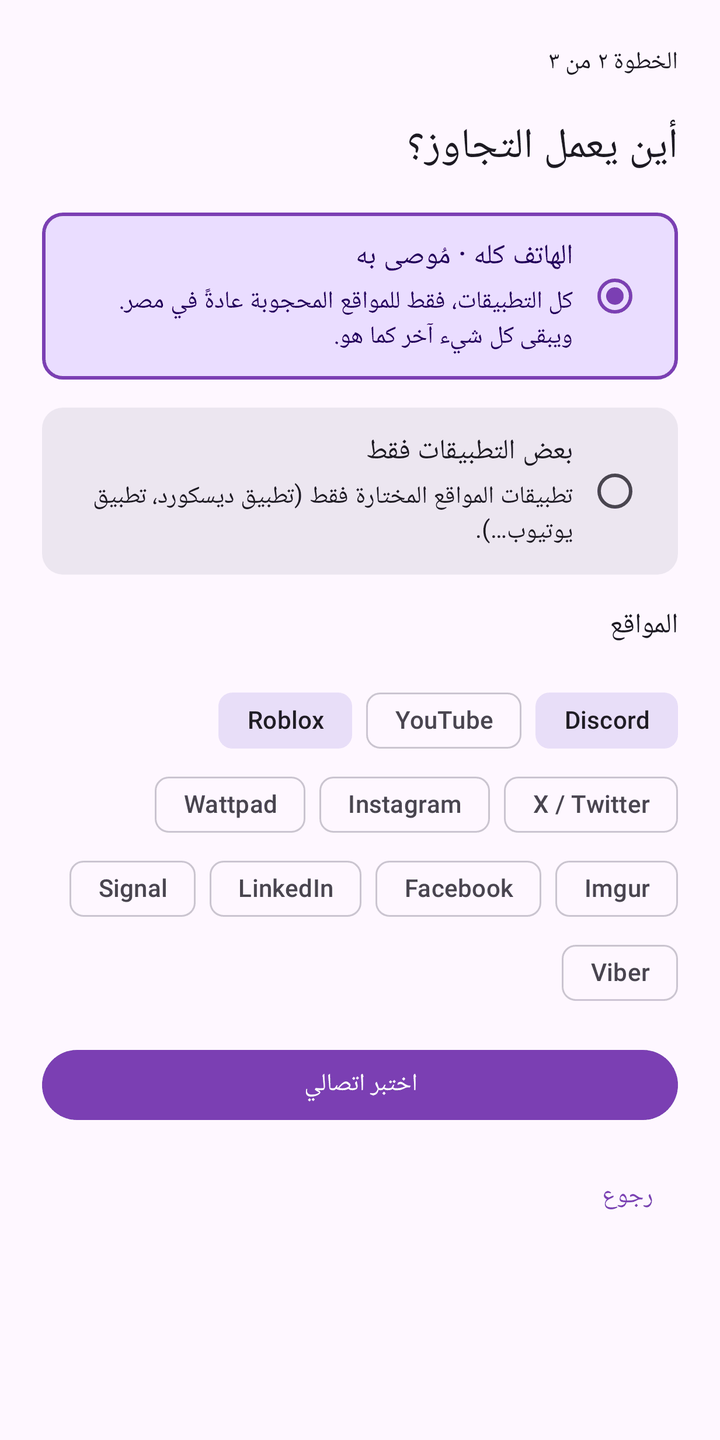
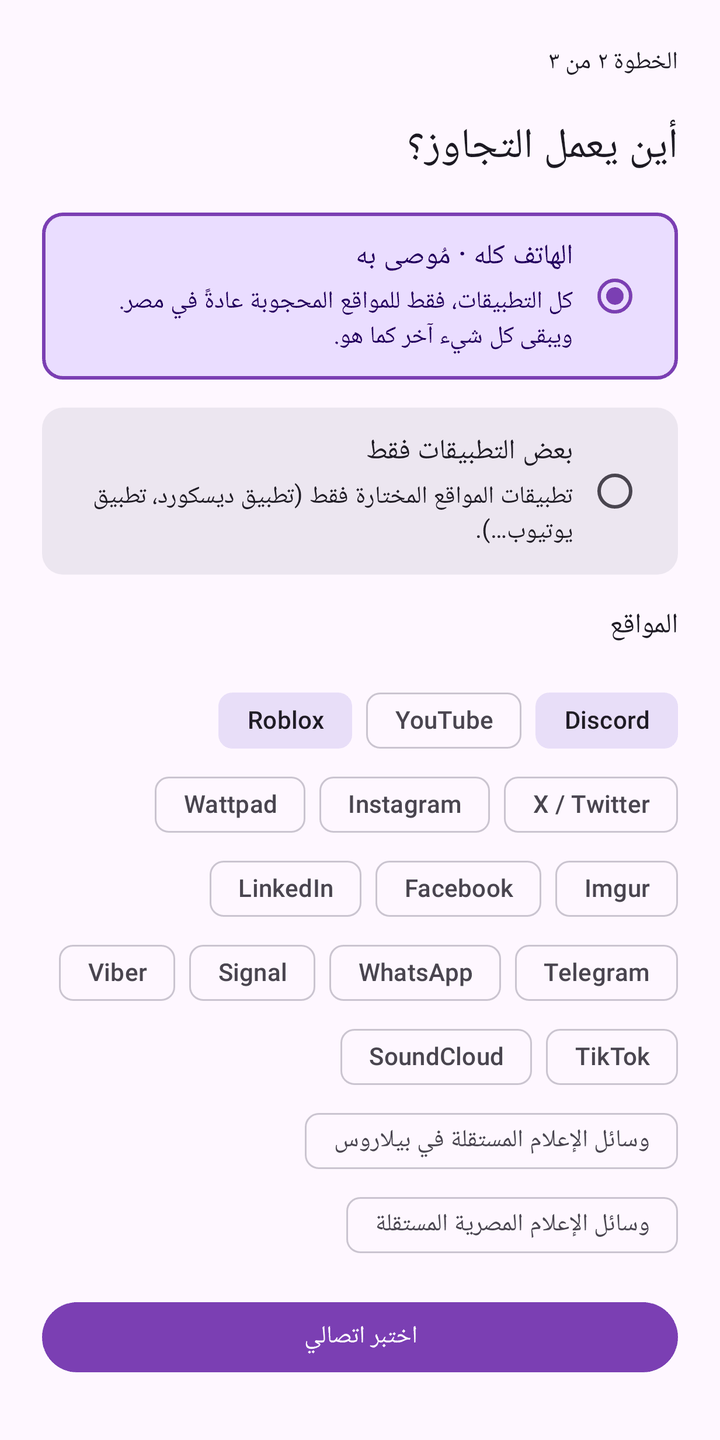
Site packs from the desktop's domains.json
The desktop app keeps its packs in strategies/domains.json (translated
names, countries); read that file instead of packs.json. Pack chips and
new profile names use the translated name.

diff --git a/core/src/main/kotlin/io/github/halilkhrmn/dpimech/core/DomainPack.kt b/core/src/main/kotlin/io/github/halilkhrmn/dpimech/core/DomainPack.kt
@@ -6,7 +6,7 @@ import kotlinx.serialization.SerializationException
 import kotlinx.serialization.json.Json
 
 /**
- * A ready-made site pack, from `strategies/packs.json` in the desktop repository (format 1,
+ * A ready-made site pack, from `strategies/domains.json` in the desktop repository (format 1,
  * shared with the desktop app). The APK ships a copy ([embedded]) and fetches the newest one
  * from [URL]; [ALL] is the list in use.
  */
@@ -20,18 +20,27 @@ data class DomainPack(
     val probes: List<String>,
     /** Android apps that use these domains: choosing the pack ticks them when installed. */
     @SerialName("android_packages") val packages: List<String> = emptyList(),
+    /** The name in other languages, by language code; [name] is English. */
+    val names: Map<String, String> = emptyMap(),
+    /** ISO codes of the countries where the site is widely reported blocked ("*": everywhere). */
+    val countries: List<String> = emptyList(),
 ) {
+    /** The name in [language] (an ISO 639 code) when the file has one, else [name]. */
+    fun displayName(language: String): String = names[language] ?: name
+
     @Serializable
     private data class Raw(val format: Int, val packs: List<DomainPack> = emptyList())
 
     companion object {
-        const val URL = "https://raw.githubusercontent.com/halilkhrmn/dpimech/main/strategies/packs.json"
+        const val URL = "https://raw.githubusercontent.com/halilkhrmn/dpimech/main/strategies/domains.json"
 
         /** The file format this build understands; a newer one is ignored until the app is updated. */
         const val FORMAT = 1
 
         private val json = Json { ignoreUnknownKeys = true }
         private val HOST = Regex("(?=.{1,253}$)([a-z0-9]([a-z0-9-]{0,61}[a-z0-9])?\\.)+[a-z0-9]([a-z0-9-]{0,61}[a-z0-9])?")
+        private val ID = Regex("[a-z0-9-]{1,40}")
+        private val COUNTRY = Regex("\\*|[A-Z]{2}")
         private val PACKAGE = Regex("[A-Za-z][A-Za-z0-9_]*(\\.[A-Za-z][A-Za-z0-9_]*)+")
 
         /**
@@ -45,11 +54,15 @@ data class DomainPack(
                 throw IllegalArgumentException("not a pack file: ${e.message}", e)
             }
             require(raw.format == FORMAT) { "unsupported pack file format ${raw.format}" }
-            require(raw.packs.isNotEmpty()) { "the pack file has no packs" }
+            require(raw.packs.size in 1..100) { "${raw.packs.size} packs" }
             val ids = mutableSetOf<String>()
             for (p in raw.packs) {
-                require(p.id.isNotEmpty() && p.name.isNotBlank() && ids.add(p.id)) { "pack \"${p.id}\": missing or repeated id or name" }
+                require(ID.matches(p.id) && ids.add(p.id)) { "bad or repeated pack id \"${p.id}\"" }
+                require((listOf(p.name) + p.names.values).all { it.isNotBlank() && it.length <= 120 }) { "${p.id}: bad name" }
                 require(p.domains.isNotEmpty() && p.probes.isNotEmpty()) { "pack \"${p.id}\": no domains or no probes" }
+                require(p.domains.size <= 200 && p.probes.size <= 20 && p.packages.size <= 20) { "${p.id}: too many entries" }
+                p.countries.firstOrNull { !COUNTRY.matches(it) }
+                    ?.let { throw IllegalArgumentException("${p.id}: \"$it\" is not a country code") }
                 (p.domains + p.probes).firstOrNull { !HOST.matches(it) }
                     ?.let { throw IllegalArgumentException("pack \"${p.id}\": \"$it\" is not a host name") }
                 p.packages.firstOrNull { !PACKAGE.matches(it) }
@@ -60,9 +73,9 @@ data class DomainPack(
 
         /** The copy built into this app (a resource of this module). */
         val embedded: List<DomainPack> by lazy {
-            val text = DomainPack::class.java.getResourceAsStream("/strategies/packs.json")
+            val text = DomainPack::class.java.getResourceAsStream("/strategies/domains.json")
                 ?.use { it.readBytes().decodeToString() }
-                ?: error("packs.json missing from resources")
+                ?: error("domains.json missing from resources")
             parse(text).getOrThrow()
         }
 

diff --git a/core/src/test/kotlin/io/github/halilkhrmn/dpimech/core/CatalogTest.kt b/core/src/test/kotlin/io/github/halilkhrmn/dpimech/core/CatalogTest.kt
@@ -10,7 +10,9 @@ class CatalogTest {
     fun packsAreConsistent() {
         assertEquals(DomainPack.ALL.size, DomainPack.ALL.map { it.id }.toSet().size)
         for (p in DomainPack.ALL) {
-            assertTrue(p.probes.isNotEmpty() && p.packages.isNotEmpty(), p.id)
+            assertTrue(p.probes.isNotEmpty(), p.id)
+            // Every pack but the news sites has an Android app.
+            assertTrue(p.packages.isNotEmpty() || p.id.startsWith("news-"), p.id)
             for (d in p.domains + p.probes) assertEquals(d, Hostlist.normalize(d), "${p.id}: $d")
             // Every probe is covered by the hostlist (ciadpi matches subdomains).
             for (probe in p.probes) {
@@ -36,6 +38,8 @@ class CatalogTest {
         assertEquals(listOf("com.discord"), DomainPack.byId("discord")!!.packages)
         val ok = """{"format":1,"packs":[{"id":"a","name":"A","domains":["a.com"],"probes":["a.com"]}]}"""
         assertEquals(emptyList(), DomainPack.parse(ok).getOrThrow().single().packages)
+        val named = DomainPack.parse(ok.replace("}]}", ",\"names\":{\"tr\":\"Bir\"},\"countries\":[\"*\",\"TR\"]}]}")).getOrThrow().single()
+        assertEquals("Bir" to "A", named.displayName("tr") to named.displayName("ru"))
         for (bad in listOf(
             ok.replace("\"format\":1", "\"format\":2"),
             ok.replace("[\"a.com\"],\"probes", "[\"a.com/x\"],\"probes"),
@@ -43,6 +47,8 @@ class CatalogTest {
             ok.replace("\"probes\":[\"a.com\"]", "\"probes\":[]"),
             ok.replace("}]}", ",\"android_packages\":[\"no package\"]}]}"),
             ok.replace("}]}", "},{\"id\":\"a\",\"name\":\"B\",\"domains\":[\"b.com\"],\"probes\":[\"b.com\"]}]}"),
+            ok.replace("}]}", ",\"countries\":[\"tr\"]}]}"),
+            ok.replace("\"id\":\"a\"", "\"id\":\"A b\""),
             "not json",
         )) {
             assertTrue(DomainPack.parse(bad).isFailure, bad)

diff --git a/app/src/main/kotlin/io/github/halilkhrmn/dpimech/ui/MainActivity.kt b/app/src/main/kotlin/io/github/halilkhrmn/dpimech/ui/MainActivity.kt
@@ -289,7 +289,7 @@ class MainActivity : AppCompatActivity() {
         val chosen = DomainPack.ALL.filter { it.id in packs }
         val p = Profile(
             id = UUID.randomUUID().toString(),
-            name = chosen.joinToString(" + ") { it.name },
+            name = chosen.joinToString(" + ") { it.displayName(packLanguage()) },
             packs = chosen.map { it.id },
             strategy = entry,
             perNetwork = networkKey?.let { mapOf(it to entry) }.orEmpty(),
@@ -311,7 +311,7 @@ class MainActivity : AppCompatActivity() {
             val chosen = DomainPack.ALL.filter { it.id in choice.packs }
             Profile(
                 id = id,
-                name = chosen.joinToString(" + ") { it.name },
+                name = chosen.joinToString(" + ") { it.displayName(packLanguage()) },
                 packs = choice.packs,
                 strategy = entry,
                 apps = chosen.flatMap { it.packages }.filter { it in installed },
@@ -321,6 +321,9 @@ class MainActivity : AppCompatActivity() {
     }
 
     /** The SIM's country when nothing better is known (no permission needed). */
+    /** The app's language, for the site pack names in new profiles. */
+    private fun packLanguage(): String = resources.configuration.locales[0].language
+
     private fun simCountry(): String? = runCatching {
         getSystemService(android.telephony.TelephonyManager::class.java)?.simCountryIso?.uppercase()?.ifEmpty { null }
     }.getOrNull()

diff --git a/app/src/main/kotlin/io/github/halilkhrmn/dpimech/ui/ProfileEditor.kt b/app/src/main/kotlin/io/github/halilkhrmn/dpimech/ui/ProfileEditor.kt
@@ -57,6 +57,7 @@ import androidx.compose.ui.text.input.ImeAction
 import androidx.compose.ui.text.input.KeyboardType
 import androidx.compose.ui.unit.dp
 import io.github.halilkhrmn.dpimech.R
+import androidx.compose.ui.platform.LocalConfiguration
 import io.github.halilkhrmn.dpimech.core.AppMode
 import io.github.halilkhrmn.dpimech.core.ArgPolicy
 import io.github.halilkhrmn.dpimech.core.DomainPack
@@ -127,6 +128,7 @@ fun ProfileEditor(
             )
 
             Section(stringResource(R.string.profile_sites))
+            val language = LocalConfiguration.current.locales[0].language
             FlowRow(horizontalArrangement = Arrangement.spacedBy(8.dp)) {
                 DomainPack.ALL.forEach { pack ->
                     val on = pack.id in packs
@@ -137,10 +139,10 @@ fun ProfileEditor(
                             if (!on) {
                                 // Ticking a pack also ticks its installed apps.
                                 apps = (apps + pack.packages.filter { it in installed }).distinct()
-                                if (name.isBlank()) name = pack.name
+                                if (name.isBlank()) name = pack.displayName(language)
                             }
                         },
-                        label = { Text(pack.name) },
+                        label = { Text(pack.label()) },
                     )
                 }
             }

diff --git a/app/src/main/kotlin/io/github/halilkhrmn/dpimech/data/StrategyRepository.kt b/app/src/main/kotlin/io/github/halilkhrmn/dpimech/data/StrategyRepository.kt
@@ -21,12 +21,12 @@ data class StrategyOption(val entry: StrategyEntry, val source: String, val orig
 /**
  * The standard set from the desktop repository's `default.json` (newest copy cached, the
  * built-in one as fallback) plus the community list, and the site packs from the same
- * repository's `packs.json`. Downloads are plain data, never code.
+ * repository's `domains.json`. Downloads are plain data, never code.
  */
 class StrategyRepository(dir: File) {
     private val standardCache = File(dir, "strategies.json")
     private val communityCache = File(dir, "community.txt")
-    private val packsCache = File(dir, "packs.json")
+    private val packsCache = File(dir, "domains.json")
     private val state = MutableStateFlow(load())
     val options: StateFlow<List<StrategyOption>> = state.asStateFlow()
     private val updated = MutableStateFlow(lastDownload())

diff --git a/app/src/main/kotlin/io/github/halilkhrmn/dpimech/ui/HomeScreen.kt b/app/src/main/kotlin/io/github/halilkhrmn/dpimech/ui/HomeScreen.kt
@@ -1,5 +1,7 @@
 package io.github.halilkhrmn.dpimech.ui
 
+import io.github.halilkhrmn.dpimech.core.DomainPack
+import androidx.compose.ui.platform.LocalConfiguration
 import androidx.compose.animation.AnimatedVisibility
 import androidx.compose.animation.animateColorAsState
 import androidx.compose.animation.core.animateDpAsState
@@ -571,6 +573,10 @@ private fun ProfilesCard(saved: SavedProfiles, onSelect: (String) -> Unit, onEdi
 }
 
 private val OnGreen = Color(0xFF1E8E3E)
+
+/** A site pack's name in the app's language (the shared file has a few translated names). */
+@Composable
+fun DomainPack.label(): String = displayName(LocalConfiguration.current.locales[0].language)
 
 /** "All apps · 4 sites" or "2 apps · 1 site". */
 @Composable

diff --git a/app/src/main/kotlin/io/github/halilkhrmn/dpimech/ui/WizardScreen.kt b/app/src/main/kotlin/io/github/halilkhrmn/dpimech/ui/WizardScreen.kt
@@ -117,7 +117,7 @@ fun WizardScreen(
                     FlowRow(horizontalArrangement = Arrangement.spacedBy(8.dp)) {
                         DomainPack.ALL.forEach { p ->
                             val on = p.id in packs
-                            FilterChip(selected = on, onClick = { packs = if (on) packs - p.id else packs + p.id }, label = { Text(p.name) })
+                            FilterChip(selected = on, onClick = { packs = if (on) packs - p.id else packs + p.id }, label = { Text(p.label()) })
                         }
                     }
                     Button(

diff --git a/app/src/main/kotlin/io/github/halilkhrmn/dpimech/ui/LabScreen.kt b/app/src/main/kotlin/io/github/halilkhrmn/dpimech/ui/LabScreen.kt
@@ -106,7 +106,7 @@ fun LabScreen(
                             selected = on,
                             enabled = !state.running,
                             onClick = { packs = if (on) packs - p.id else packs + p.id },
-                            label = { Text(p.name) },
+                            label = { Text(p.label()) },
                         )
                     }
                 }

diff --git a/docs/PLAN.md b/docs/PLAN.md
@@ -55,8 +55,8 @@ native/         ndk-build files: byedpi/ and hev-socks5-tunnel/ submodules (hev 
   `https://raw.githubusercontent.com/halilkhrmn/dpimech/main/strategies/default.json` (format 1).
   The APK ships a copy as fallback and fetches the newest one at runtime — a fix on desktop reaches
   Android without a release. It is plain data (argument strings), never code.
-- **Site packs:** `strategies/packs.json` next to `default.json` (format 1): domains, probe hosts and
-  the Android package names per pack. Both apps embed it; Android also fetches the newest one, so a
+- **Site packs:** `strategies/domains.json` next to `default.json` (format 1): domains, probe hosts,
+  translated names, the countries where each site is blocked, and the Android package names. Both apps embed it; Android also fetches the newest one, so a
   new site reaches phones without a release (DECISIONS #26).
 - **ISP table** (Türk Telekom, Superonline, Turkcell, Vodafone, TurkNet, …) and ISP preset matching.
 - **Strategy Lab scoring:** confirmed first, then success rate, then speed (`LabResult::score`).
@@ -135,7 +135,7 @@ native/         ndk-build files: byedpi/ and hev-socks5-tunnel/ submodules (hev 
    - Quick site check: does a site open directly, and through the bypass?
    - More countries for the whole-phone preset: Iran, Kazakhstan, Belarus, Egypt (owner's choice);
      new languages Persian and Arabic for the app and the README (Russian covers KZ and BY).
-   - Site packs shared with the desktop app (`packs.json` next to `default.json`).
+   - Site packs shared with the desktop app (`domains.json` next to `default.json`).
 4. **Release** — GitHub Releases (signed APK, per-ABI + universal), IzzyOnDroid, then F-Droid.
 
 ## Build, CI and testing

diff --git a/docs/PROGRESS.md b/docs/PROGRESS.md
@@ -39,7 +39,7 @@
   - [x] Profile export / import
   - [x] Quick site check
   - [x] More countries (Iran, Belarus, Egypt; not Kazakhstan, DECISIONS #25) + Persian and Arabic (app, README, store)
-  - [x] Site packs shared with the desktop app (`packs.json`, DECISIONS #26)
+  - [x] Site packs shared with the desktop app (`domains.json`, DECISIONS #26)
 - [ ] **Phase 4 — Release:** GitHub Releases, IzzyOnDroid, F-Droid
   - [x] Fastlane metadata (en/tr/ru), store images, reproducible release build
   - [x] First signed release: v0.1.0 (2026-10-01), reproducible (apksigcopier compare)
@@ -49,6 +49,17 @@
   - [ ] F-Droid: merged by the reviewers, app published
 
 ## Work log
+
+### 2026-10-02 — Site packs from the desktop's domains.json
+- Done: the desktop app had meanwhile moved its packs to `strategies/domains.json` (with translated
+  names and the countries where each site is blocked), so Android reads that file instead of
+  `packs.json`. The desktop PR now only adds `android_packages` to it (desktop DECISIONS #46). New
+  packs on phones: Telegram, WhatsApp, TikTok, SoundCloud and independent news for Belarus and
+  Egypt. Pack chips and new profile names use the translated name when the file has one.
+- Verified: `CatalogTest` (names, countries, ids); app tests, lint unchanged; store images
+  rendered again (the wizard and Lab show the new packs).
+- Next: build the whole-phone country lists from the file's `countries` instead of
+  `CountryPreset`; v0.2.0.
 
 ### 2026-10-02 — Site packs shared with the desktop app
 - Done: the packs live in the desktop repo's `strategies/packs.json` (desktop branch

diff --git a/AGENTS.md b/AGENTS.md
@@ -29,7 +29,7 @@ Work-log entries: newest on top, `### YYYY-MM-DD — short title`, then bullets 
 - Keep F-Droid compatible: no Google Play Services, Firebase, analytics or crash reporters; no
   executable downloads at runtime; native code only from pinned submodules.
 - Strategy data comes from the desktop repo's `strategies/default.json`, site packs from its
-  `strategies/packs.json`; do not fork the formats. Change packs there, then copy the file into
+  `strategies/domains.json`; do not fork the formats. Change packs there, then copy the file into
   `core/src/main/resources/strategies/`.
   If Android needs a change, change it there.
 - User-visible strings go through Android resources (`values/`, `values-tr/`, `values-ru/`,
@@ -64,7 +64,7 @@ core/     pure Kotlin, no Android: everything that can be unit-tested
   StrategyFile      shared default.json (format 1); embedded copy in resources/strategies/
   ArgPolicy         ciadpi option allowlist (port of desktop argpolicy.rs, ByeDPI table)
   ByeDpiCommand     strategy → ciadpi argv: placeholders, managed options, domain filter
-  DomainPack        shared packs.json (format 1, + Android package names); embedded copy, newest
+  DomainPack        shared domains.json (format 1, + Android package names); embedded copy, newest
                     download in use
   Isp               ISP table from desktop catalog.rs
   Lab, LabRunner    Strategy Lab: scoring (same order as desktop) and the runner

diff --git a/docs/DECISIONS.md b/docs/DECISIONS.md
@@ -160,8 +160,8 @@ were translated by the AI assistant; the READMEs ask native speakers for correct
 right-to-left; the Compose UI mirrors itself (checked with store renders).
 
 ## 26. Site packs from the desktop repository (2026-10-02)
-The packs moved from code in both apps to `strategies/packs.json` in the desktop repository
-(its DECISIONS #43): domains, probe hosts and `android_packages`, which desktop ignores. The APK
+The packs moved from code in both apps to `strategies/domains.json` in the desktop repository
+(its DECISIONS #43 and #46; a first `packs.json` attempt was dropped for the desktop's file): domains, probe hosts, translated names, countries and `android_packages`, which desktop ignores. The APK
 ships a copy and downloads the newest file together with the strategy lists, so a new site or a
 changed domain reaches phones without a release. The file is plain data: every host must be a
 lower-case DNS name (it goes into ciadpi's host list), package names are checked, ids are unique;
